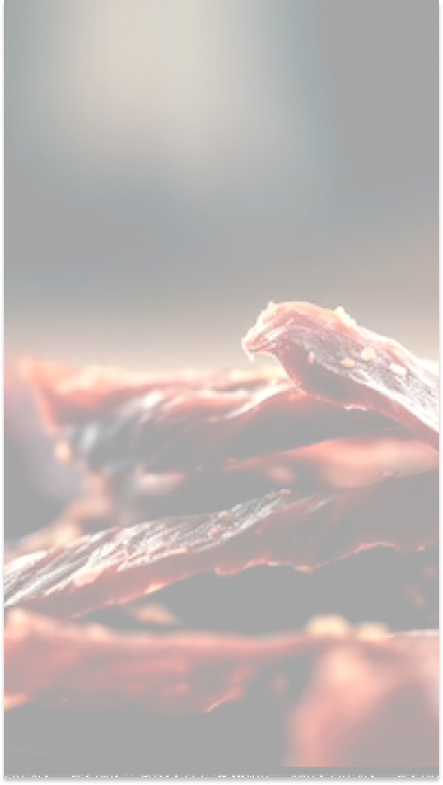
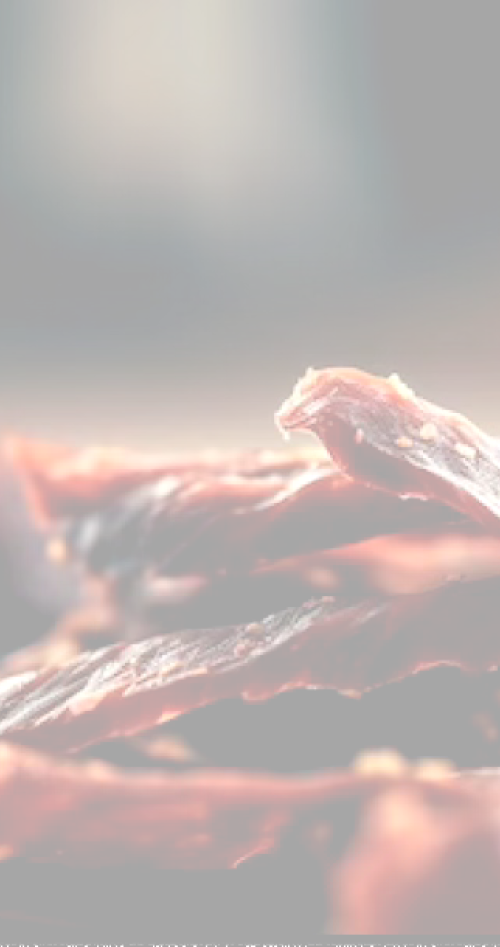
modified:   .DS_Store 	modified:   images/.DS_Store 	modified:   style.css

diff --git a/style.css b/style.css
@@ -159,8 +159,9 @@ body a {
 @media screen and (max-width: 600px) {
     body {
         background-color: #222222;
-        background-image: url('images/Frame 1.png');
-        background-size: contain; /* Або інше значення, таке як 'contain' */
+        background-image: url('images/Rectangle 1.png');
+        background-size: 600px; /* Або інше значення, таке як 'contain' */
+        background-attachment: fixed;
         background-position: center center;  
         color: white;
     }
